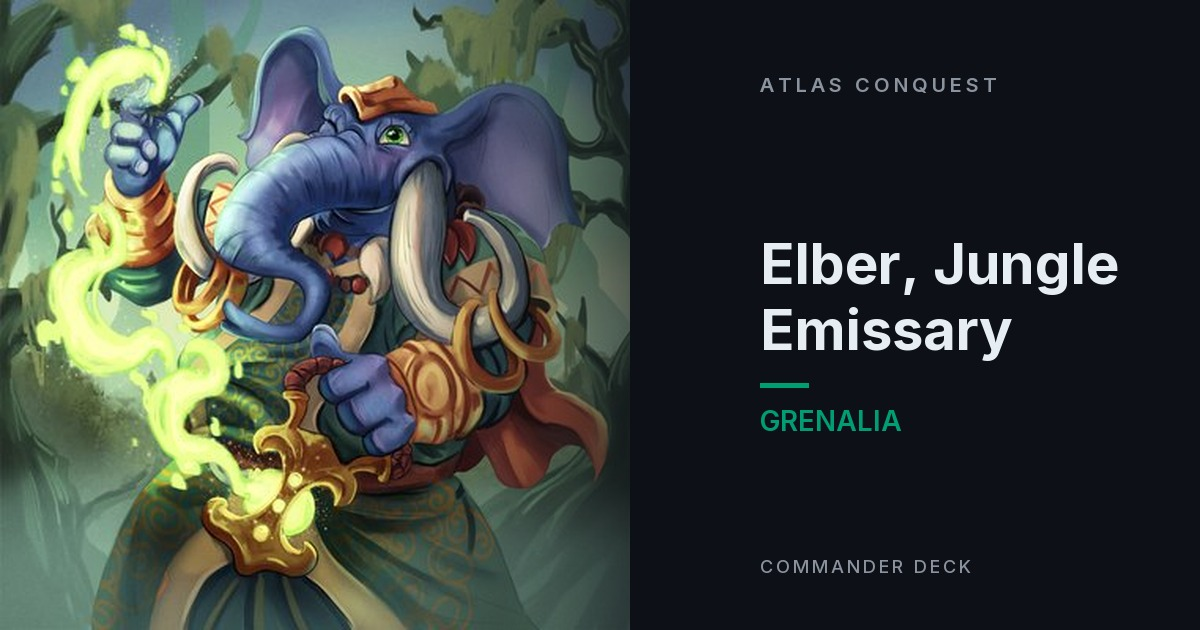
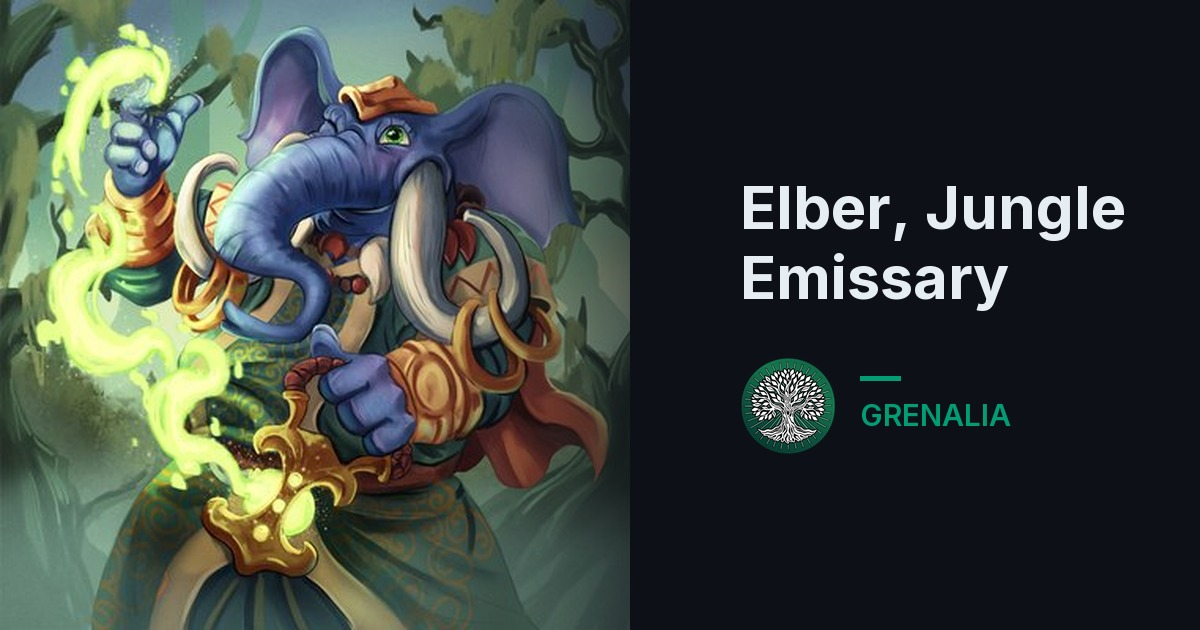
feat: swap 'COMMANDER DECK' text for faction emblem in OG images
MTG-coded filler out, faction identity in. Each 1200×630 unfurl image now
has the faction's in-game emblem (from site/assets/factions/) paired with
the faction name as a heraldic badge below the commander name. Top/bottom
'ATLAS CONQUEST' and 'COMMANDER DECK' brand lines removed — the commander
art + faction crest are all the identity the preview needs.

Emblem is rendered at 96px from the 200×200 source; Discord will downscale
to ~32px in its preview pane which is still legible.

Changed region(s): [[0.6167, 0.2714, 0.9558, 0.7238], [0.6167, 0.1206, 0.8325, 0.1508], [0.6475, 0.8746, 0.8017, 0.9048]]

diff --git a/scripts/generate_og_images.py b/scripts/generate_og_images.py
@@ -38,6 +38,7 @@ SITE_DIR = REPO_ROOT / "site"
 COMMANDERS_JSON = SITE_DIR / "data" / "commanders.json"
 OUT_DIR = SITE_DIR / "assets" / "og"
 FONT_PATH = REPO_ROOT / "scripts" / "assets" / "fonts" / "Inter-Variable.ttf"
+FACTION_EMBLEM_DIR = SITE_DIR / "assets" / "factions"
 
 # ─── Canvas constants ───────────────────────────────────────
 
@@ -46,13 +47,16 @@ BG = (13, 17, 23)            # #0d1117 — matches site background
 FG = (230, 237, 243)         # #e6edf3 — primary text
 MUTED = (139, 148, 158)      # #8b949e — secondary text
 
-# Layout — left panel holds the art, right panel holds the text
+# Layout — left panel holds the art, right panel holds name + faction crest.
+# No top/bottom brand text: the commander art and the faction emblem do all the
+# identity lifting. "COMMANDER DECK" was MTG-coded filler anyway.
 ART_W = 630                  # art fills a 630×630 square on the left
 FADE_START = 380             # where the dark gradient overlay begins
 FADE_END = 720               # where it becomes fully opaque (covers art edge)
-TEXT_X = 760                 # text column x-start (past the fade)
+TEXT_X = 740                 # text column x-start (past the fade)
 TEXT_RIGHT_MARGIN = 60
 TEXT_AVAIL = W - TEXT_X - TEXT_RIGHT_MARGIN
+EMBLEM_SIZE = 96             # faction emblem rendered at this px — 200×200 source
 
 # ─── Faction palette (matches site/js/shared.js FACTION_COLORS / LABELS) ──
 
@@ -169,6 +173,17 @@ def _paste_art(canvas: Image.Image, art_path: Path) -> None:
     canvas.paste(art, (0, 0))
 
 
+def _load_emblem(faction: str) -> Image.Image | None:
+    """Load the faction emblem as a 96×96 RGBA — already color/stylised in the
+    source art so we do not tint or recolor it. Returns None and the render
+    falls back to a text-only badge if the emblem is missing for this faction."""
+    path = FACTION_EMBLEM_DIR / f"{faction}.png"
+    if not path.exists():
+        return None
+    img = Image.open(path).convert("RGBA")
+    return img.resize((EMBLEM_SIZE, EMBLEM_SIZE), Image.LANCZOS)
+
+
 def render_og(commander: dict, fade_overlay: Image.Image, out_path: Path) -> None:
     name = commander["name"]
     faction = commander.get("faction", "neutral")
@@ -183,27 +198,33 @@ def render_og(commander: dict, fade_overlay: Image.Image, out_path: Path) -> Non
 
     draw = ImageDraw.Draw(canvas)
 
-    # Top brand line
-    brand_font = _font(20, "SemiBold")
-    _letterspace(draw, (TEXT_X, 72), "ATLAS CONQUEST", brand_font, MUTED, spacing=4)
-
-    # Commander name — auto-sized/wrapped
+    # Commander name — auto-sized/wrapped, takes the visual weight of the right
+    # panel. Anchored toward the top-middle so the emblem+label row sits below
+    # with breathing room. Without top/bottom brand text there's plenty of space.
     name_lines, name_font = _fit_name(name, "Bold", TEXT_AVAIL)
     line_h = name_font.size + 10
     name_block_h = line_h * len(name_lines)
-    name_top = (H - name_block_h) // 2 - 20
+    name_top = 170  # anchored high; tuned for 1-line and 2-line cases to both look balanced
+    if len(name_lines) == 1:
+        name_top = 215  # single-line names read better slightly lower
     for i, line in enumerate(name_lines):
         draw.text((TEXT_X, name_top + i * line_h), line, fill=FG, font=name_font)
 
-    # Faction accent bar + label
-    bar_y = name_top + name_block_h + 22
-    draw.rectangle([(TEXT_X, bar_y), (TEXT_X + 48, bar_y + 4)], fill=faction_color)
-    faction_font = _font(28, "SemiBold")
-    draw.text((TEXT_X, bar_y + 20), faction_label, fill=faction_color, font=faction_font)
-
-    # Bottom tag
-    tag_font = _font(18, "Medium")
-    _letterspace(draw, (TEXT_X, H - 75), "COMMANDER DECK", tag_font, MUTED, spacing=3)
+    # Faction crest row: emblem on the left, accent bar + label stacked to its
+    # right. Reads like a heraldic badge — the emblem is already the strongest
+    # identity marker the game uses, so we let it headline.
+    crest_y = name_top + name_block_h + 48
+    emblem = _load_emblem(faction)
+    label_font = _font(30, "SemiBold")
+    bar_x = TEXT_X
+    if emblem is not None:
+        canvas.paste(emblem, (TEXT_X, crest_y), emblem)
+        bar_x = TEXT_X + EMBLEM_SIZE + 24
+    # Accent bar positioned to align with the upper third of the emblem
+    bar_y = crest_y + 18
+    draw.rectangle([(bar_x, bar_y), (bar_x + 40, bar_y + 4)], fill=faction_color)
+    # Faction label sits under the accent bar, vertically centered against the emblem
+    draw.text((bar_x, bar_y + 20), faction_label, fill=faction_color, font=label_font)
 
     out_path.parent.mkdir(parents=True, exist_ok=True)
     # JPEG at q=92 keeps text crisp enough while cutting filesize ~4-6× vs PNG
